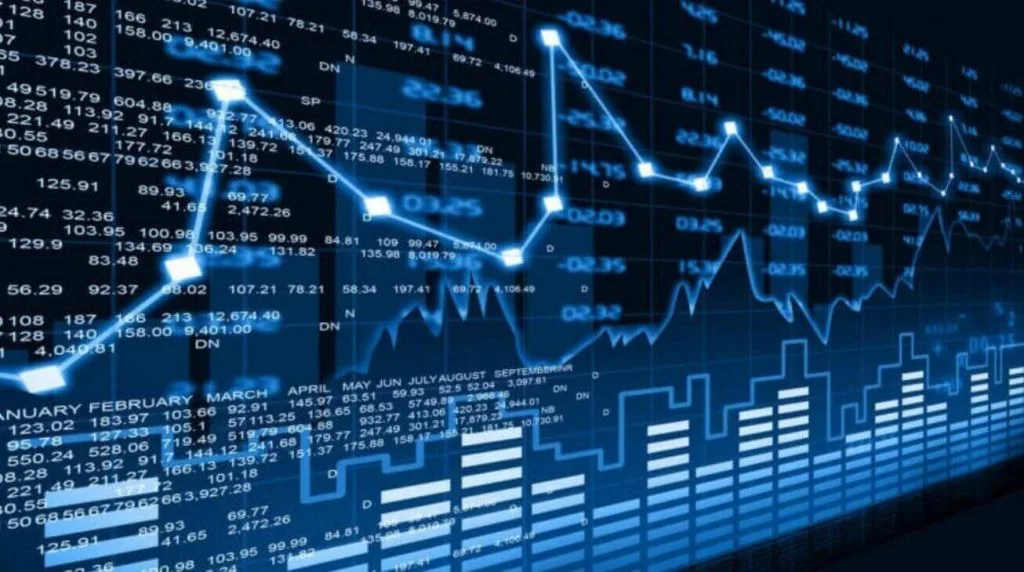
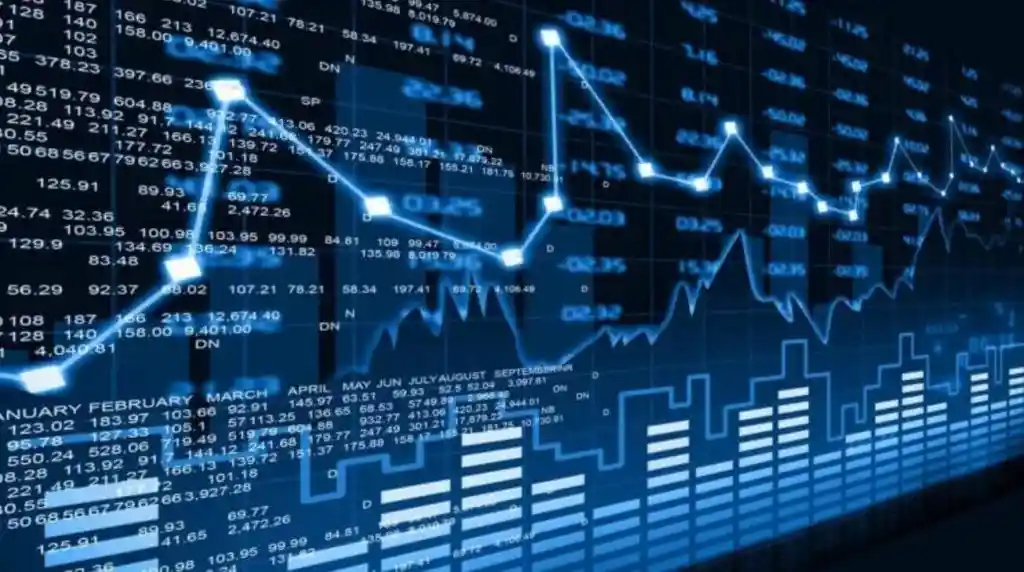
reduced file size

diff --git a/dspyt/components/Post.js b/dspyt/components/Post.js
@@ -26,6 +26,7 @@ export default function Post({ post, slug }) {
         width={600}
         src={cover_image}
         alt={title}
+        loading="lazy"
       />
       <div className="flex-1 bg-white p-6 flex flex-col justify-between">
         <div className="flex flex-wrap">

diff --git a/utils/convert.py b/utils/convert.py
@@ -2,8 +2,8 @@
 import os
 from PIL import Image
 
-#DIR = os.path.join('..', 'dspyt', 'public', 'images', 'posts', 'zeroknowledge')
-DIR = os.path.join('..', 'dspyt', 'public', 'authors')
+DIR = os.path.join('..', 'dspyt', 'public', 'images', 'posts', 'tokenomics')
+#DIR = os.path.join('..', 'dspyt', 'public', 'authors')
 #DIR = os.path.join('..', 'dspyt', 'public')
 
 files = os.listdir(DIR)
